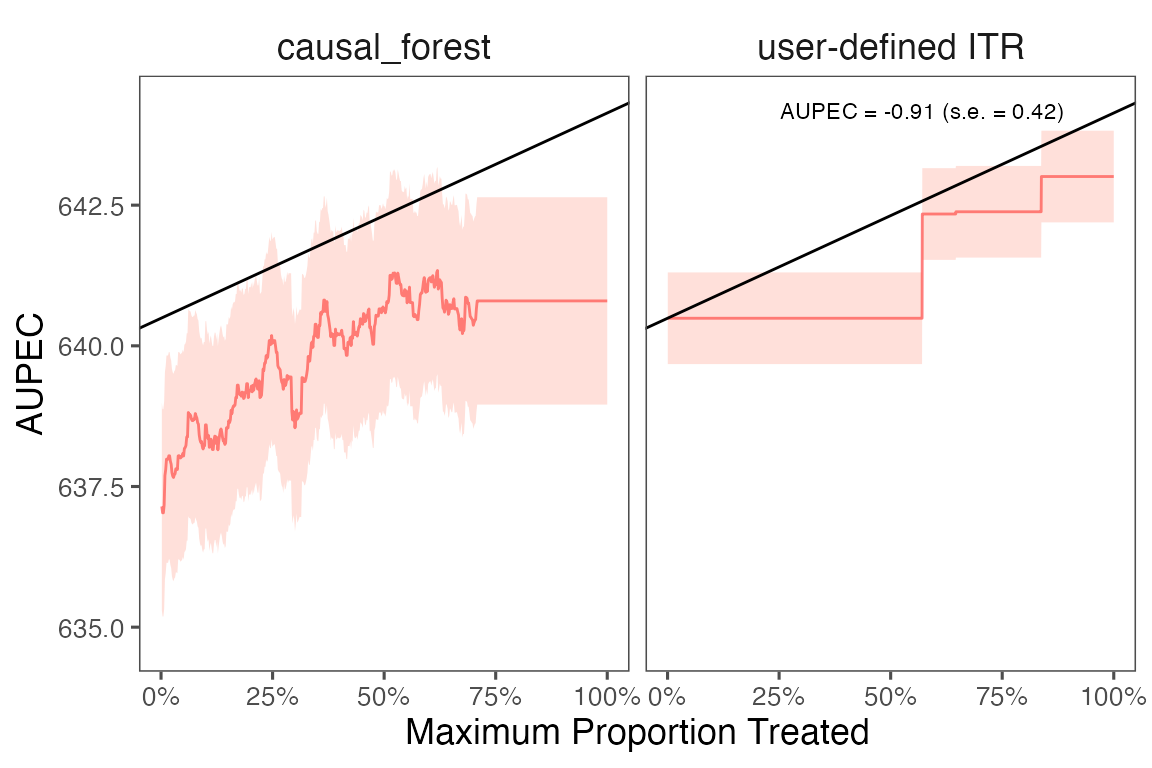
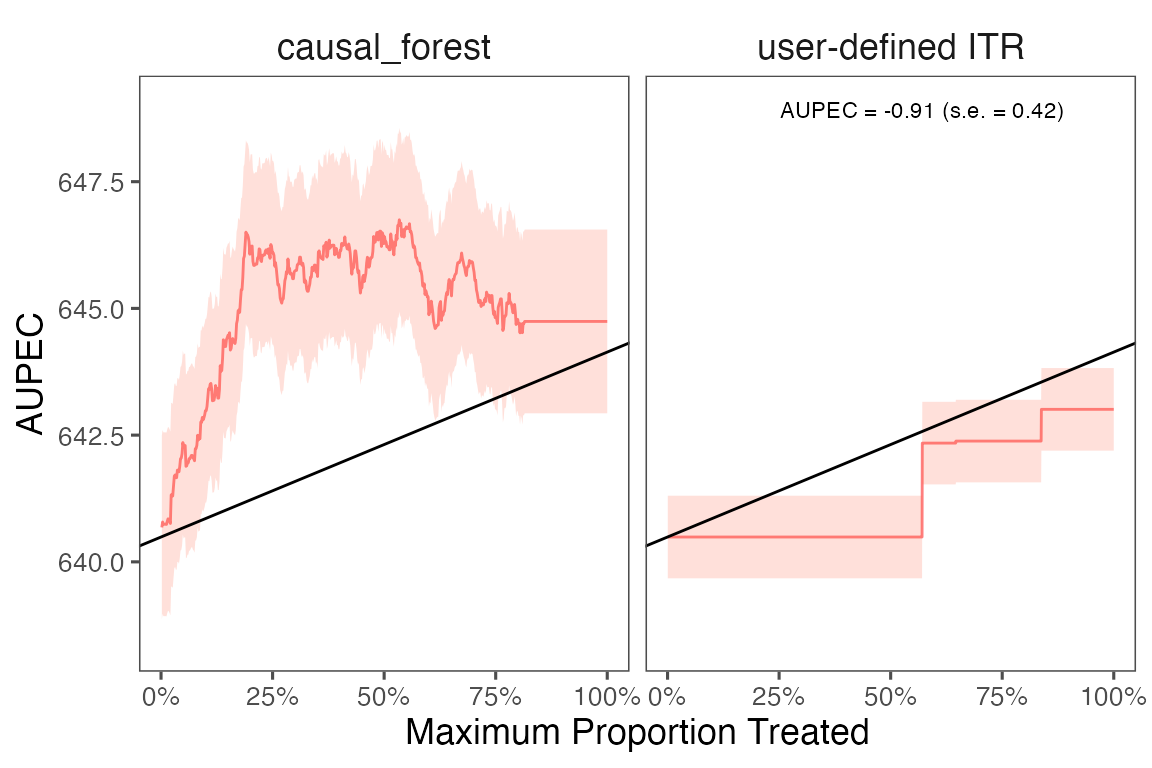
update user defined model f(x) -> itr

diff --git a/docs/articles/user_itr_algs.html b/docs/articles/user_itr_algs.html
@@ -152,14 +152,14 @@ and AUPEC for the user defined ITR.</p>
 <span></span>
 <span><span class="co"># user's own ITR</span></span>
 <span><span class="va">score_function</span> <span class="op">&lt;-</span> <span class="kw">function</span><span class="op">(</span><span class="va">data</span><span class="op">)</span><span class="op">{</span></span>
-<span>  <span class="va">data</span> <span class="op"><a href="https://magrittr.tidyverse.org/reference/pipe.html" class="external-link">%&gt;%</a></span> </span>
-<span>    <span class="fu"><a href="https://dplyr.tidyverse.org/reference/mutate.html" class="external-link">mutate</a></span><span class="op">(</span>score <span class="op">=</span> <span class="fu"><a href="https://dplyr.tidyverse.org/reference/case_when.html" class="external-link">case_when</a></span><span class="op">(</span></span>
-<span>      <span class="va">SCHLURBN</span> <span class="op">==</span> <span class="fl">1</span> <span class="op">~</span> <span class="fl">0.1</span>, <span class="co"># inner-city</span></span>
-<span>      <span class="va">SCHLURBN</span> <span class="op">==</span> <span class="fl">2</span> <span class="op">~</span> <span class="fl">0.2</span>, <span class="co"># suburban</span></span>
-<span>      <span class="va">SCHLURBN</span> <span class="op">==</span> <span class="fl">3</span> <span class="op">~</span> <span class="fl">0.4</span>, <span class="co"># rural</span></span>
-<span>      <span class="va">SCHLURBN</span> <span class="op">==</span> <span class="fl">4</span> <span class="op">~</span> <span class="fl">0.3</span>, <span class="co"># urban</span></span>
-<span>    <span class="op">)</span><span class="op">)</span> <span class="op"><a href="https://magrittr.tidyverse.org/reference/pipe.html" class="external-link">%&gt;%</a></span></span>
-<span>    <span class="fu"><a href="https://dplyr.tidyverse.org/reference/pull.html" class="external-link">pull</a></span><span class="op">(</span><span class="va">score</span><span class="op">)</span> <span class="op">-&gt;</span> <span class="va">score</span></span>
+<span>  <span class="va">data</span> <span class="op">%&gt;%</span> </span>
+<span>    <span class="fu">mutate</span><span class="op">(</span>score <span class="op">=</span> <span class="fu">case_when</span><span class="op">(</span></span>
+<span>      <span class="va">school_urban</span> <span class="op">==</span> <span class="fl">1</span> <span class="op">~</span> <span class="fl">0.1</span>, <span class="co"># inner-city</span></span>
+<span>      <span class="va">school_urban</span> <span class="op">==</span> <span class="fl">2</span> <span class="op">~</span> <span class="fl">0.2</span>, <span class="co"># suburban</span></span>
+<span>      <span class="va">school_urban</span> <span class="op">==</span> <span class="fl">3</span> <span class="op">~</span> <span class="fl">0.4</span>, <span class="co"># rural</span></span>
+<span>      <span class="va">school_urban</span> <span class="op">==</span> <span class="fl">4</span> <span class="op">~</span> <span class="fl">0.3</span>, <span class="co"># urban</span></span>
+<span>    <span class="op">)</span><span class="op">)</span> <span class="op">%&gt;%</span></span>
+<span>    <span class="fu">pull</span><span class="op">(</span><span class="va">score</span><span class="op">)</span> <span class="op">-&gt;</span> <span class="va">score</span></span>
 <span>    </span>
 <span>  <span class="kw"><a href="https://rdrr.io/r/base/function.html" class="external-link">return</a></span><span class="op">(</span><span class="va">score</span><span class="op">)</span></span>
 <span><span class="op">}</span></span>
@@ -178,34 +178,34 @@ and AUPEC for the user defined ITR.</p>
 <span><span class="fu"><a href="https://rdrr.io/r/base/summary.html" class="external-link">summary</a></span><span class="op">(</span><span class="va">compare_itr</span><span class="op">)</span></span>
 <span><span class="co">#&gt; ── PAPE ────────────────────────────────────────────────────────────────────────</span></span>
 <span><span class="co">#&gt;   estimate std.deviation     algorithm statistic p.value</span></span>
-<span><span class="co">#&gt; 1     0.18           1.2 causal_forest      0.14    0.89</span></span>
-<span><span class="co">#&gt; 2     0.00           0.0      user_itr       NaN     NaN</span></span>
+<span><span class="co">#&gt; 1     0.89             1 causal_forest      0.89    0.37</span></span>
+<span><span class="co">#&gt; 2     0.00             0      user_itr       NaN     NaN</span></span>
 <span><span class="co">#&gt; </span></span>
 <span><span class="co">#&gt; ── PAPEp ───────────────────────────────────────────────────────────────────────</span></span>
 <span><span class="co">#&gt;   estimate std.deviation     algorithm statistic p.value</span></span>
-<span><span class="co">#&gt; 1      1.2          1.09 causal_forest       1.1    0.28</span></span>
-<span><span class="co">#&gt; 2      1.1          0.67      user_itr       1.6    0.11</span></span>
+<span><span class="co">#&gt; 1      4.7          1.30 causal_forest       3.6 0.00027</span></span>
+<span><span class="co">#&gt; 2      1.1          0.67      user_itr       1.6 0.11485</span></span>
 <span><span class="co">#&gt; </span></span>
 <span><span class="co">#&gt; ── PAPDp ───────────────────────────────────────────────────────────────────────</span></span>
 <span><span class="co">#&gt; Cannot compute PAPDp</span></span>
 <span><span class="co">#&gt; </span></span>
 <span><span class="co">#&gt; ── AUPEC ───────────────────────────────────────────────────────────────────────</span></span>
 <span><span class="co">#&gt;   estimate std.deviation     algorithm statistic p.value</span></span>
-<span><span class="co">#&gt; 1     0.48          0.94 causal_forest      0.51   0.613</span></span>
-<span><span class="co">#&gt; 2    -0.91          0.42          &lt;NA&gt;     -2.19   0.028</span></span>
+<span><span class="co">#&gt; 1     2.37          0.92 causal_forest       2.6   0.010</span></span>
+<span><span class="co">#&gt; 2    -0.91          0.42          &lt;NA&gt;      -2.2   0.028</span></span>
 <span><span class="co">#&gt; </span></span>
 <span><span class="co">#&gt; ── GATE ────────────────────────────────────────────────────────────────────────</span></span>
 <span><span class="co">#&gt;    estimate std.deviation     algorithm group statistic p.value  upper lower</span></span>
-<span><span class="co">#&gt; 1        31           108 causal_forest     1      0.29   0.775 -147.3   209</span></span>
-<span><span class="co">#&gt; 2      -129           107 causal_forest     2     -1.20   0.229 -305.5    47</span></span>
-<span><span class="co">#&gt; 3        32           107 causal_forest     3      0.30   0.767 -144.6   208</span></span>
-<span><span class="co">#&gt; 4        43           107 causal_forest     4      0.40   0.690 -133.6   219</span></span>
-<span><span class="co">#&gt; 5        48           106 causal_forest     5      0.45   0.650 -126.4   223</span></span>
-<span><span class="co">#&gt; 6       126            58      user_itr     1      2.16   0.031   30.2   222</span></span>
-<span><span class="co">#&gt; 7        96            59      user_itr     2      1.62   0.105   -1.4   194</span></span>
-<span><span class="co">#&gt; 8       -33            59      user_itr     3     -0.56   0.579 -129.7    64</span></span>
-<span><span class="co">#&gt; 9      -139            59      user_itr     4     -2.36   0.018 -236.5   -42</span></span>
-<span><span class="co">#&gt; 10      -32            59      user_itr     5     -0.54   0.589 -129.4    65</span></span></code></pre></div>
+<span><span class="co">#&gt; 1      -104           108 causal_forest     1     -0.96 0.33606 -281.1    74</span></span>
+<span><span class="co">#&gt; 2        75           109 causal_forest     2      0.69 0.49334 -104.9   255</span></span>
+<span><span class="co">#&gt; 3       369           110 causal_forest     3      3.36 0.00077  188.6   550</span></span>
+<span><span class="co">#&gt; 4      -299           106 causal_forest     4     -2.82 0.00478 -473.6  -125</span></span>
+<span><span class="co">#&gt; 5       -22           108 causal_forest     5     -0.20 0.83937 -199.7   156</span></span>
+<span><span class="co">#&gt; 6       126            58      user_itr     1      2.16 0.03063   30.2   222</span></span>
+<span><span class="co">#&gt; 7        96            59      user_itr     2      1.62 0.10491   -1.4   194</span></span>
+<span><span class="co">#&gt; 8       -33            59      user_itr     3     -0.56 0.57859 -129.7    64</span></span>
+<span><span class="co">#&gt; 9      -139            59      user_itr     4     -2.36 0.01813 -236.5   -42</span></span>
+<span><span class="co">#&gt; 10      -32            59      user_itr     5     -0.54 0.58875 -129.4    65</span></span></code></pre></div>
 <p>We plot the estimated Area Under the Prescriptive Effect Curve
 (AUPEC) for the writing score across a range of budget constraints for
 user defined ITR and estimated ITRs. The plot shows that the estimated
@@ -270,13 +270,45 @@ model</td>
 </tr>
 </tbody>
 </table>
+<p>The <code>user_model</code> input should be a function that takes two
+arguments: <code>training_data</code> and <code>test_data</code>. The
+function will make use of the <code>training_data</code> to fit a model
+and then use the <code>test_data</code> to estimate CATE or other
+metrics of interest. It should also specify the way to get the ITR,
+based on the estimated effects. In the following example, we fit a
+linear model with sample splitting and use the estimated CATE. We
+compute the ITR by assigning treatment to those with positive CATE and
+no treatment to those with negative CATE. Note that the user defined
+model can be any model that returns a unit-level continuous score for
+treatment assignment. It do not have to be a linear model or model that
+estimate CATE. In addition, the scoring rule can be any rule that
+assigns treatment based on the score and map the score to a binary
+indicator of treatment assignment. In the end, the function should
+return a list that contains (1) an ITR; (2) a fitted model; and (3) a
+score.</p>
+<p>If <code>split_ratio</code> is specified, the function will split the
+data into training and test data. The <code>split_ratio</code> should be
+a numeric value between 0 and 1. Alternatively, if <code>n_folds</code>
+is specified, the function will use the entire data to fit the user
+defined model via cross-validation.</p>
 <div class="sourceCode" id="cb3"><pre class="downlit sourceCode r">
-<code class="sourceCode R"><span></span>
-<span><span class="co"># user's own model</span></span>
-<span><span class="va">user_model</span> <span class="op">&lt;-</span> <span class="kw">function</span><span class="op">(</span><span class="va">data</span><span class="op">)</span><span class="op">{</span></span>
-<span>  <span class="va">model</span> <span class="op">&lt;-</span> <span class="fu"><a href="https://rdrr.io/r/stats/lm.html" class="external-link">lm</a></span><span class="op">(</span><span class="va">Y</span> <span class="op">~</span> <span class="cn">T</span><span class="op">*</span><span class="op">(</span><span class="va">GKWHITE</span> <span class="op">+</span> <span class="va">GKBUSED</span> <span class="op">+</span> <span class="va">GKFRLNCH</span><span class="op">)</span>, data <span class="op">=</span> <span class="va">data</span><span class="op">)</span></span>
-<span>  <span class="kw"><a href="https://rdrr.io/r/base/function.html" class="external-link">return</a></span><span class="op">(</span><span class="va">model</span><span class="op">)</span></span>
-<span>  <span class="op">}</span></span>
+<code class="sourceCode R"><span><span class="co"># user's own model </span></span>
+<span><span class="va">user_model</span> <span class="op">&lt;-</span> <span class="kw">function</span><span class="op">(</span><span class="va">training_data</span>, <span class="va">test_data</span><span class="op">)</span><span class="op">{</span></span>
+<span></span>
+<span> <span class="co"># model fit on training data</span></span>
+<span> <span class="va">fit</span> <span class="op">&lt;-</span> <span class="fu"><a href="https://rdrr.io/r/stats/lm.html" class="external-link">lm</a></span><span class="op">(</span><span class="va">Y</span> <span class="op">~</span> <span class="cn">T</span><span class="op">*</span><span class="op">(</span><span class="va">cov1</span> <span class="op">+</span> <span class="va">cov1</span> <span class="op">+</span> <span class="va">cov3</span><span class="op">)</span>, data <span class="op">=</span> <span class="va">training_data</span><span class="op">)</span></span>
+<span></span>
+<span> <span class="co"># estimate CATE on test data </span></span>
+<span> <span class="va">score</span> <span class="op">&lt;-</span> <span class="fu"><a href="https://rdrr.io/r/stats/predict.html" class="external-link">predict</a></span><span class="op">(</span><span class="va">fit</span>, <span class="va">test_data</span><span class="op">)</span>  </span>
+<span></span>
+<span> <span class="co"># get ITR</span></span>
+<span> <span class="va">itr</span> <span class="op">&lt;-</span> <span class="fu"><a href="https://rdrr.io/r/base/ifelse.html" class="external-link">ifelse</a></span><span class="op">(</span><span class="va">score</span> <span class="op">&gt;</span> <span class="fl">0</span>, <span class="fl">1</span>, <span class="fl">0</span><span class="op">)</span></span>
+<span></span>
+<span> <span class="kw"><a href="https://rdrr.io/r/base/function.html" class="external-link">return</a></span><span class="op">(</span><span class="fu"><a href="https://rdrr.io/r/base/list.html" class="external-link">list</a></span><span class="op">(</span></span>
+<span>  itr <span class="op">=</span> <span class="va">itr</span>, </span>
+<span>  fit <span class="op">=</span> <span class="va">fit</span>, </span>
+<span>  score <span class="op">=</span> <span class="va">score</span><span class="op">)</span><span class="op">)</span></span>
+<span><span class="op">}</span></span>
 <span></span>
 <span><span class="co"># estimate ITR</span></span>
 <span><span class="va">compare_fit</span> <span class="op">&lt;-</span> <span class="fu"><a href="../reference/estimate_itr.html">estimate_itr</a></span><span class="op">(</span></span>
@@ -297,35 +329,35 @@ model</td>
 <span><span class="fu"><a href="https://rdrr.io/r/base/summary.html" class="external-link">summary</a></span><span class="op">(</span><span class="va">compare_est</span><span class="op">)</span></span>
 <span><span class="co">#&gt; ── PAPE ────────────────────────────────────────────────────────────────────────</span></span>
 <span><span class="co">#&gt;   estimate std.deviation     algorithm statistic p.value</span></span>
-<span><span class="co">#&gt; 1      1.3             1 causal_forest       1.3     0.2</span></span>
-<span><span class="co">#&gt; 2      0.0             0    user_model       NaN     NaN</span></span>
+<span><span class="co">#&gt; 1     0.33           1.4 causal_forest      0.24    0.81</span></span>
+<span><span class="co">#&gt; 2     0.00           0.0    user_model       NaN     NaN</span></span>
 <span><span class="co">#&gt; </span></span>
 <span><span class="co">#&gt; ── PAPEp ───────────────────────────────────────────────────────────────────────</span></span>
 <span><span class="co">#&gt;   estimate std.deviation     algorithm statistic p.value</span></span>
-<span><span class="co">#&gt; 1     2.25           1.2 causal_forest      1.96   0.051</span></span>
-<span><span class="co">#&gt; 2     0.44           1.1    user_model      0.39   0.697</span></span>
+<span><span class="co">#&gt; 1     1.82           1.1 causal_forest       1.6    0.10</span></span>
+<span><span class="co">#&gt; 2    -0.98           1.1    user_model      -0.9    0.37</span></span>
 <span><span class="co">#&gt; </span></span>
 <span><span class="co">#&gt; ── PAPDp ───────────────────────────────────────────────────────────────────────</span></span>
 <span><span class="co">#&gt;   estimate std.deviation                  algorithm statistic p.value</span></span>
-<span><span class="co">#&gt; 1      1.8           1.8 causal_forest x user_model         1    0.31</span></span>
+<span><span class="co">#&gt; 1      2.8           1.7 causal_forest x user_model       1.7   0.092</span></span>
 <span><span class="co">#&gt; </span></span>
 <span><span class="co">#&gt; ── AUPEC ───────────────────────────────────────────────────────────────────────</span></span>
 <span><span class="co">#&gt;   estimate std.deviation     algorithm statistic p.value</span></span>
-<span><span class="co">#&gt; 1     2.12          0.88 causal_forest      2.42   0.016</span></span>
-<span><span class="co">#&gt; 2    -0.71          0.82    user_model     -0.87   0.386</span></span>
+<span><span class="co">#&gt; 1     0.27          1.07 causal_forest      0.25    0.80</span></span>
+<span><span class="co">#&gt; 2    -0.12          0.79    user_model     -0.15    0.88</span></span>
 <span><span class="co">#&gt; </span></span>
 <span><span class="co">#&gt; ── GATE ────────────────────────────────────────────────────────────────────────</span></span>
 <span><span class="co">#&gt;    estimate std.deviation     algorithm group statistic p.value upper lower</span></span>
-<span><span class="co">#&gt; 1       -49           107 causal_forest     1     -0.46 6.5e-01  -226   127</span></span>
-<span><span class="co">#&gt; 2        61           108 causal_forest     2      0.56 5.7e-01  -117   238</span></span>
-<span><span class="co">#&gt; 3       125           109 causal_forest     3      1.15 2.5e-01   -54   305</span></span>
-<span><span class="co">#&gt; 4       -25           108 causal_forest     4     -0.23 8.2e-01  -202   153</span></span>
-<span><span class="co">#&gt; 5      -111           106 causal_forest     5     -1.05 2.9e-01  -285    63</span></span>
-<span><span class="co">#&gt; 6      -211           105    user_model     1     -2.01 4.5e-02  -384   -38</span></span>
-<span><span class="co">#&gt; 7      -434           106    user_model     2     -4.08 4.4e-05  -609  -259</span></span>
-<span><span class="co">#&gt; 8      -386           106    user_model     3     -3.62 2.9e-04  -561  -211</span></span>
-<span><span class="co">#&gt; 9       412           107    user_model     4      3.84 1.2e-04   236   589</span></span>
-<span><span class="co">#&gt; 10      619           106    user_model     5      5.87 4.3e-09   446   793</span></span>
+<span><span class="co">#&gt; 1       -98           108 causal_forest     1     -0.91  0.3635  -276    79</span></span>
+<span><span class="co">#&gt; 2       116           108 causal_forest     2      1.07  0.2840   -62   294</span></span>
+<span><span class="co">#&gt; 3       117           109 causal_forest     3      1.07  0.2840   -63   296</span></span>
+<span><span class="co">#&gt; 4       -46           106 causal_forest     4     -0.43  0.6674  -220   129</span></span>
+<span><span class="co">#&gt; 5       -59           106 causal_forest     5     -0.56  0.5769  -234   115</span></span>
+<span><span class="co">#&gt; 6      -175           105    user_model     1     -1.66  0.0962  -348    -2</span></span>
+<span><span class="co">#&gt; 7      -279           107    user_model     2     -2.62  0.0088  -455  -104</span></span>
+<span><span class="co">#&gt; 8       -32           108    user_model     3     -0.29  0.7689  -209   146</span></span>
+<span><span class="co">#&gt; 9       231           108    user_model     4      2.14  0.0325    53   408</span></span>
+<span><span class="co">#&gt; 10      285           108    user_model     5      2.63  0.0085   107   463</span></span>
 <span><span class="fu"><a href="https://rdrr.io/r/graphics/plot.default.html" class="external-link">plot</a></span><span class="op">(</span><span class="va">compare_est</span><span class="op">)</span></span></code></pre></div>
 <p><img src="../reference/figures/README-compare_itr_model_summary-1.png" width="700"></p>
 </div>
